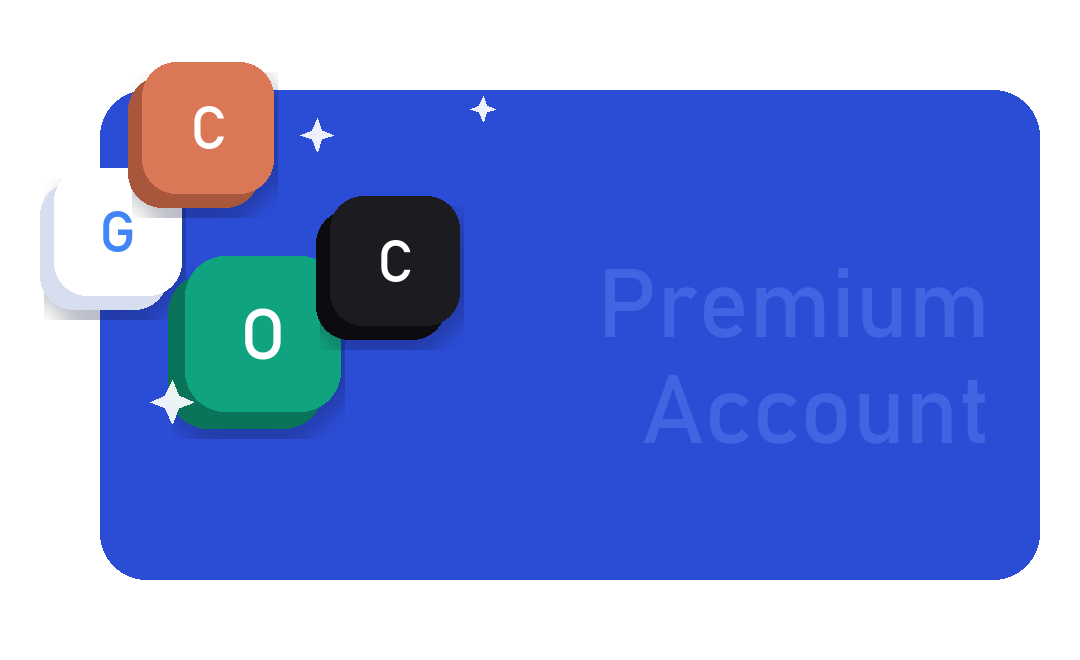
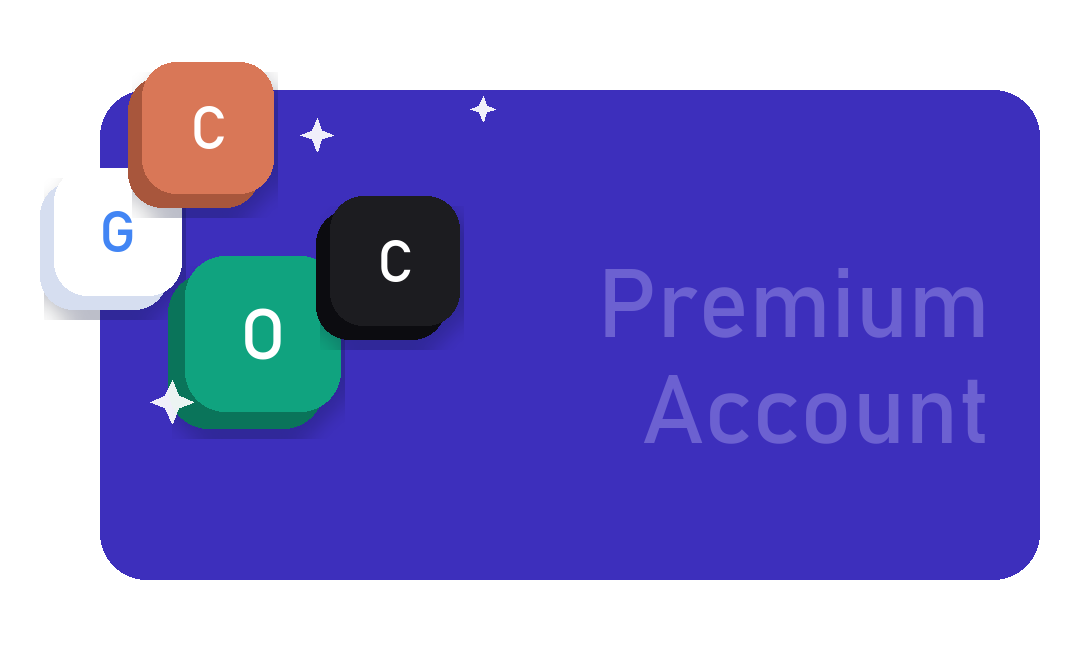
بیرونزدگی بیشتر کاراکترها و رنگ بنفشِ بنر
کاراکترها حالا از سه طرف بیرون میزنند نه یکی. مستطیل از (۱۰۰،۹۰)
تا (۱۰۴۰،۵۸۰) است و کاراکتر با ارتفاع ۶۴۰ و شروع از y=۴ حدود ۸۶
پیکسل بالای قاب میایستد، از چپ هم میزند بیرون، و پایینش هم.

سه طرف بودن عمدی است: وقتی فقط از بالا بزند شبیه تصویری میشود که
بد بریده شده؛ وقتی از سه طرف بزند، خوانده میشود که عمدی است.

رنگ مستطیل هم با محاسبه به بنفش رفت، نه با سلیقه. آبیِ برند روی
۲۲۲ درجه است و بنفشِ لوگو روی ۲۷۱؛ میانهشان ۲۴۶ میشود که بنفش
خوانده میشود ولی هنوز در همان خانواده است، نه یک رنگ سوم.

بولتهای اسلایدر هم از پایین فاصله گرفتند — به لبهی هیرو چسبیده
بودند و روی نوارِ زیرش میافتادند.

diff --git a/src/components/home/home.css b/src/components/home/home.css
@@ -93,6 +93,9 @@
   gap: 0;
   z-index: 2;
 }
+/* فاصله از پایین. بولتها به لبهی هیرو چسبیده بودند و روی
+   نوارِ زیرش میافتادند. */
+.hero__dots { bottom: var(--sp-20); }
 /* دایره میماند، بیضی نمیشود.
 
    نسخهی قبل عرضِ دات فعال را به ۲۲ پیکسل میبرد و کشیده میشد.

diff --git a/src/data/heroSlides.ts b/src/data/heroSlides.ts
@@ -118,7 +118,7 @@ export const HERO_SLIDES: HeroSlideData[] = [
       'همان دسترسی پلن اختصاصی',
       'بدون نیاز به کارت خارجی',
     ],
-    backdrop: '/hero/banner/slide-ai.png',
+    backdrop: '/hero/banner/slide-gift.png',
     tint: '#7c5cf0',
     ctaLabel: 'دیدن پلن فمیلی',
     href: '/product/gemini-pro',
